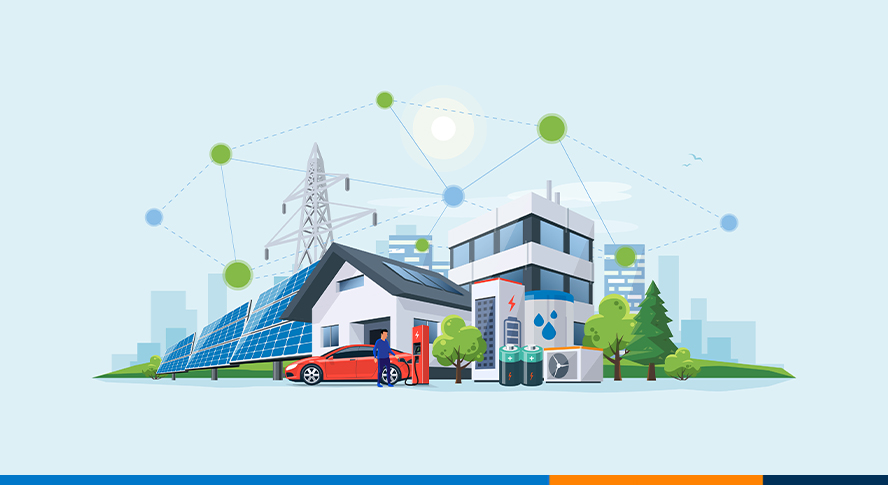
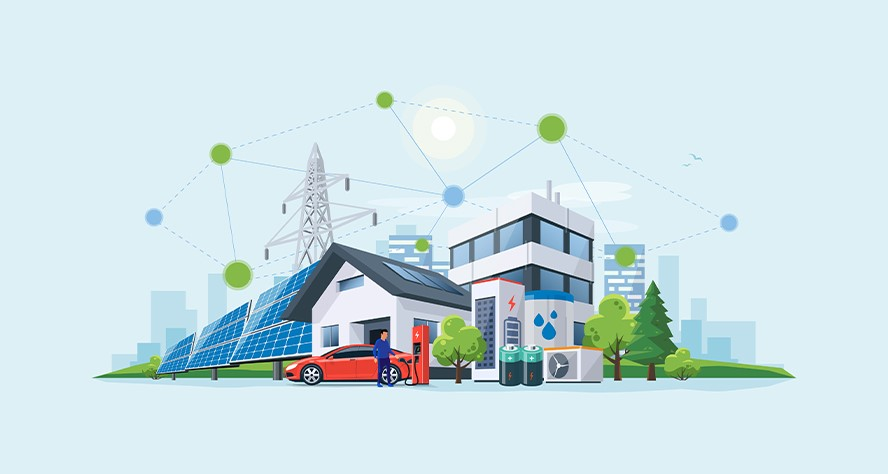
update

diff --git a/index.md b/index.md
@@ -18,7 +18,7 @@ keywords: SangWoo, Park, Optimization, Nonconvex optimization, Power systems, En
 
 <table class="wide">
 <tr>
-  <img src="publpics/mppdiag_fig4.png" alt="Broman et al. (2019) Fig 4" title="Broman et al. (2019) Fig 4"/>
+  <img src="publpics/smart_city_01.jpg" alt="Broman et al. (2019) Fig 4" title="Broman et al. (2019) Fig 4"/>
 </tr>
 <tr>
   <td class="left">
